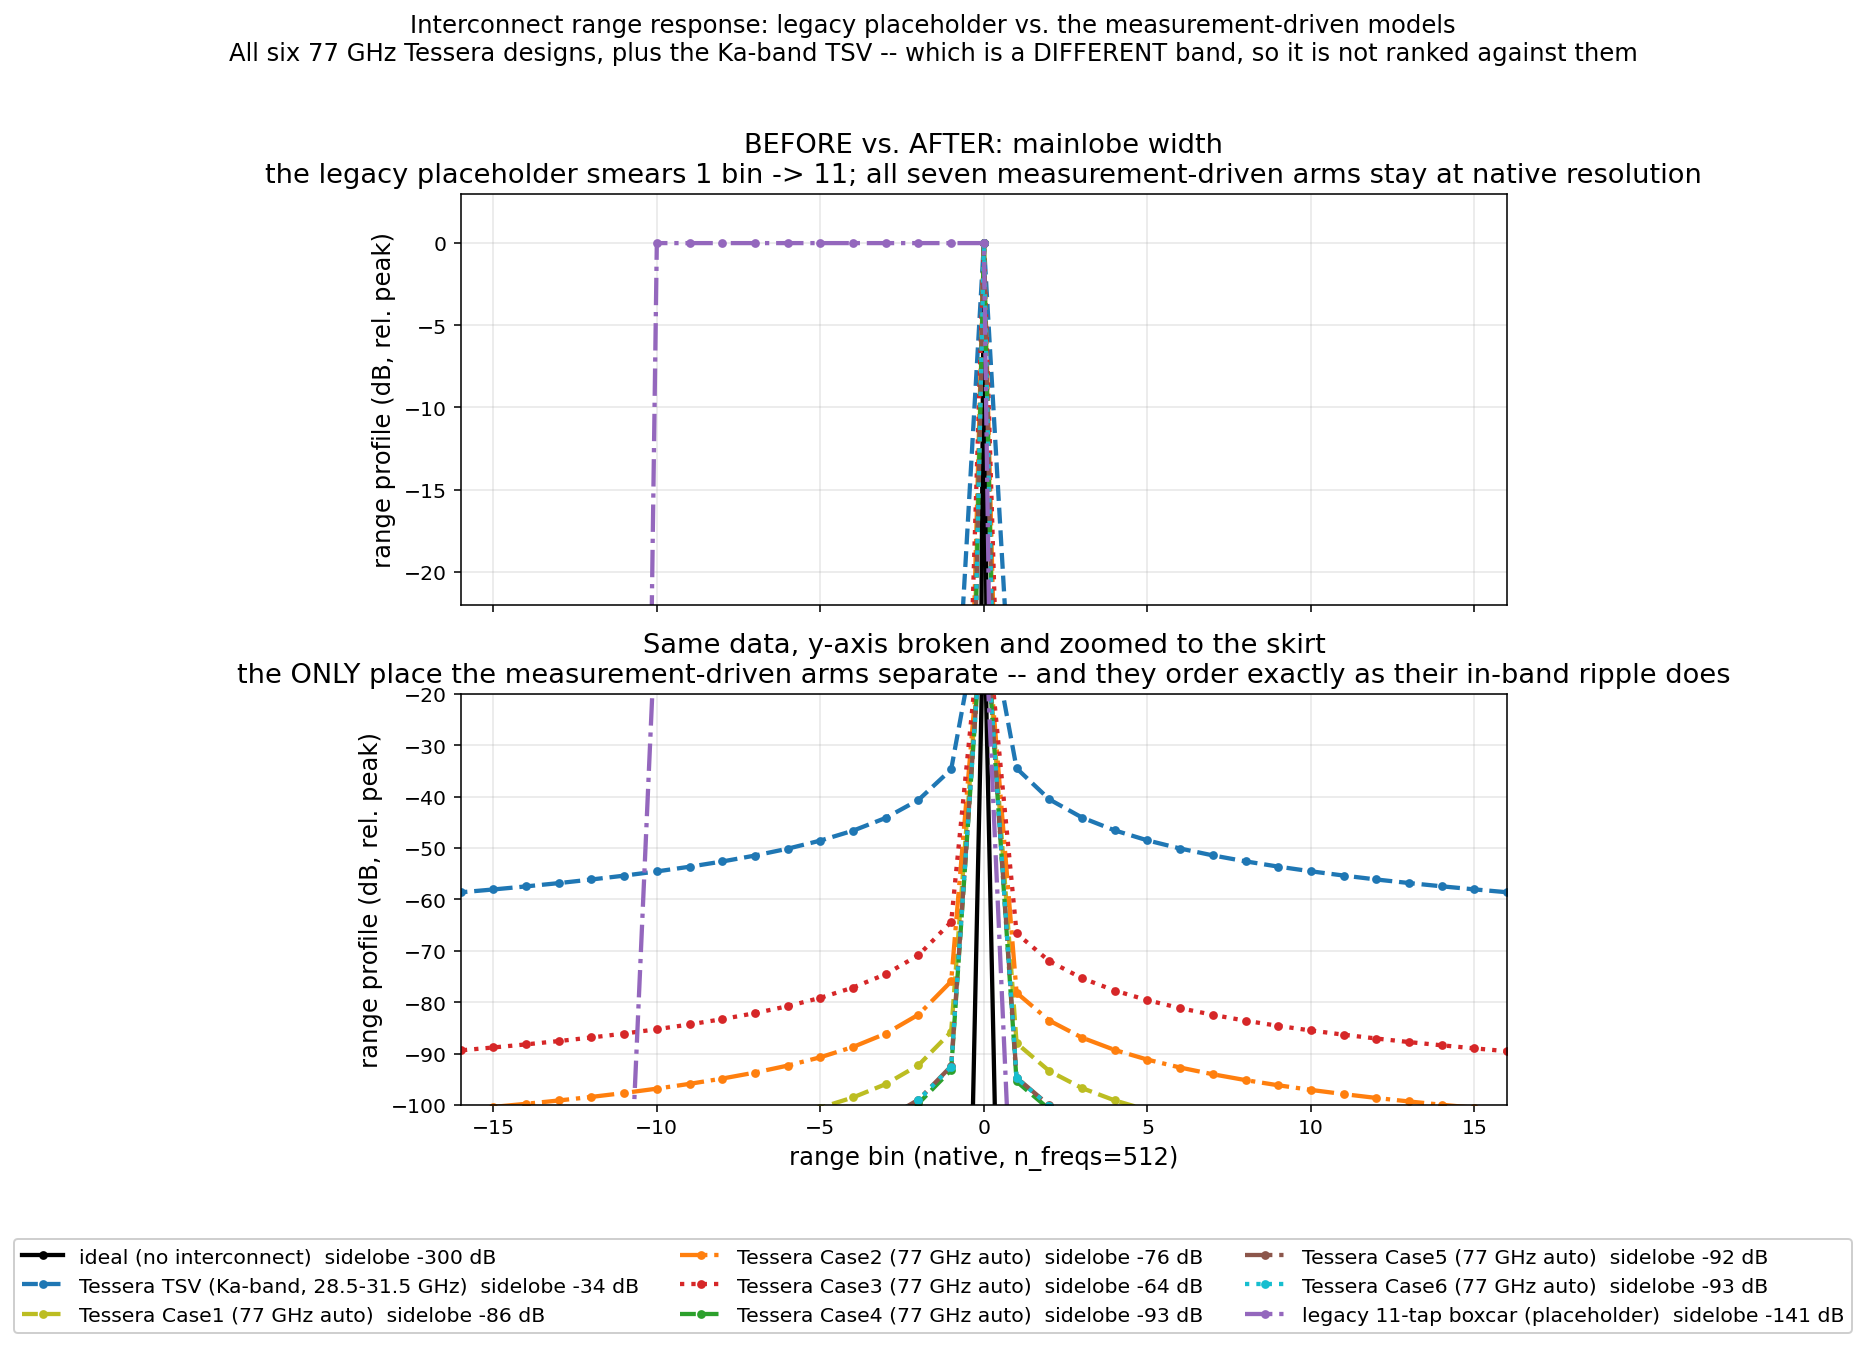
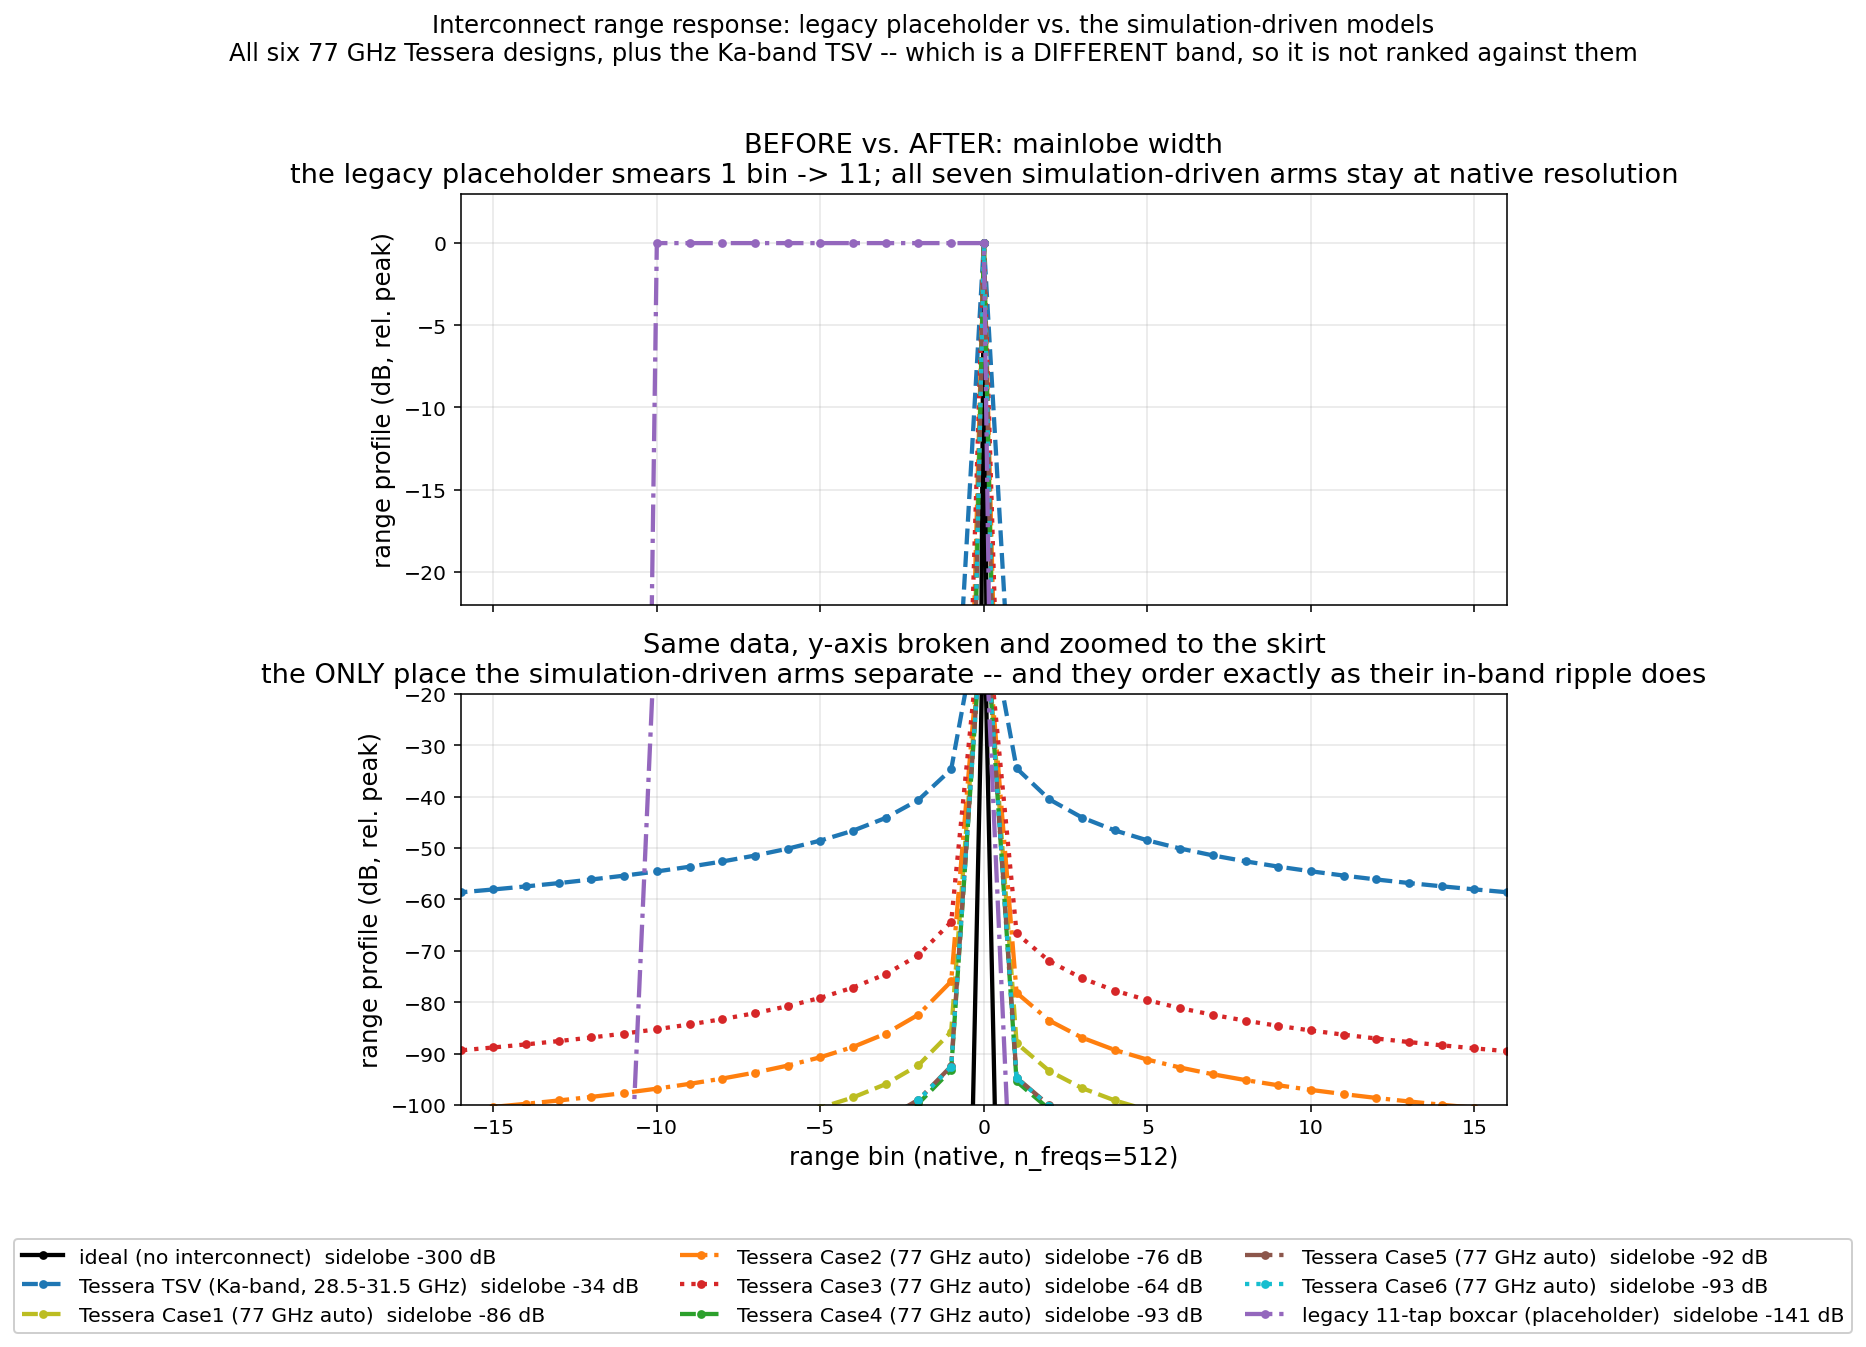
docs(media): regenerate the interconnect figures so the pixels say simulated too
The wording fix in 9a94168 changed annotation strings that main_interconnect.py bakes
into both committed figures, leaving the PNGs asserting 'measurement-driven arms' that
the generator no longer writes. Regenerated both. Four further 'worst of 6 measured'
strings survived the first pass because they were phrased differently from the ones
swept; the module is now clean by grep, and its stdout no longer contains the word.

Changed region(s): [[0.1243, 0.4677, 0.9325, 0.5301], [0.1554, 0.1247, 0.9014, 0.1559], [0.2176, 0.0, 0.7771, 0.0312]]

diff --git a/e2e/main/main_interconnect.py b/e2e/main/main_interconnect.py
@@ -205,7 +205,7 @@ def _mainlobe_metrics(mag_db):
 def _interconnect_arms(all_cases=False):
     """The arms shared by every multi-arm figure in this module.
 
-    Default is the 4-arm set (ideal, the two measured Tessera datasets, and the legacy
+    Default is the 4-arm set (ideal, the two simulated Tessera datasets, and the legacy
     boxcar placeholder) -- see `range_profile_comparison`'s docstring for what each one is
     and is not. `all_cases=True` swaps the single Case3 arm for all SIX 77 GHz designs,
     which is what the before/after figure wants: the interesting question there is how the
@@ -224,7 +224,7 @@ def _interconnect_arms(all_cases=False):
                 InterconnectBlock(transfer_csv=case_csv(n), band_hz=CASE3_BAND))
     else:
         arms["tessera_case3"] = (
-            "Tessera Case3 (77 GHz auto, worst of 6 measured)",
+            "Tessera Case3 (77 GHz auto, worst of 6 simulated)",
             InterconnectBlock(transfer_csv=CASE3_INTERCONNECT_CSV, band_hz=CASE3_BAND))
     arms["legacy_boxcar"] = ("legacy 11-tap boxcar (placeholder)", InterconnectBlock())
     return arms
@@ -308,7 +308,7 @@ def range_profile_comparison(show=True, n_freqs=N_FREQS):
                   f"peak sidelobe {m['peak_sidelobe_db']:.1f} dB")
         print(f"Tessera TSV: insertion loss {il_tsv:.2f} dB, ripple {ripple_tsv:.2f} dB p-p "
               f"over {BAND[0]/1e9:.1f}-{BAND[1]/1e9:.1f} GHz")
-        print(f"Tessera Case3 (worst of 6 measured): insertion loss {il_c3:.2f} dB, "
+        print(f"Tessera Case3 (worst of 6 simulated): insertion loss {il_c3:.2f} dB, "
               f"ripple {ripple_c3:.2f} dB p-p over {CASE3_BAND[0]/1e9:.1f}-"
               f"{CASE3_BAND[1]/1e9:.1f} GHz")
 
@@ -530,7 +530,7 @@ def _build_arg_parser():
 
     p = argparse.ArgumentParser(
         prog="python -m e2e.main.main_interconnect",
-        description="Tutorial: drive InterconnectBlock from measured S21(f) CSVs and "
+        description="Tutorial: drive InterconnectBlock from simulated S21(f) CSVs and "
                     "compare the resulting range profiles. Writes three figures.",
     )
     p.add_argument("--out-dir", default=None,
